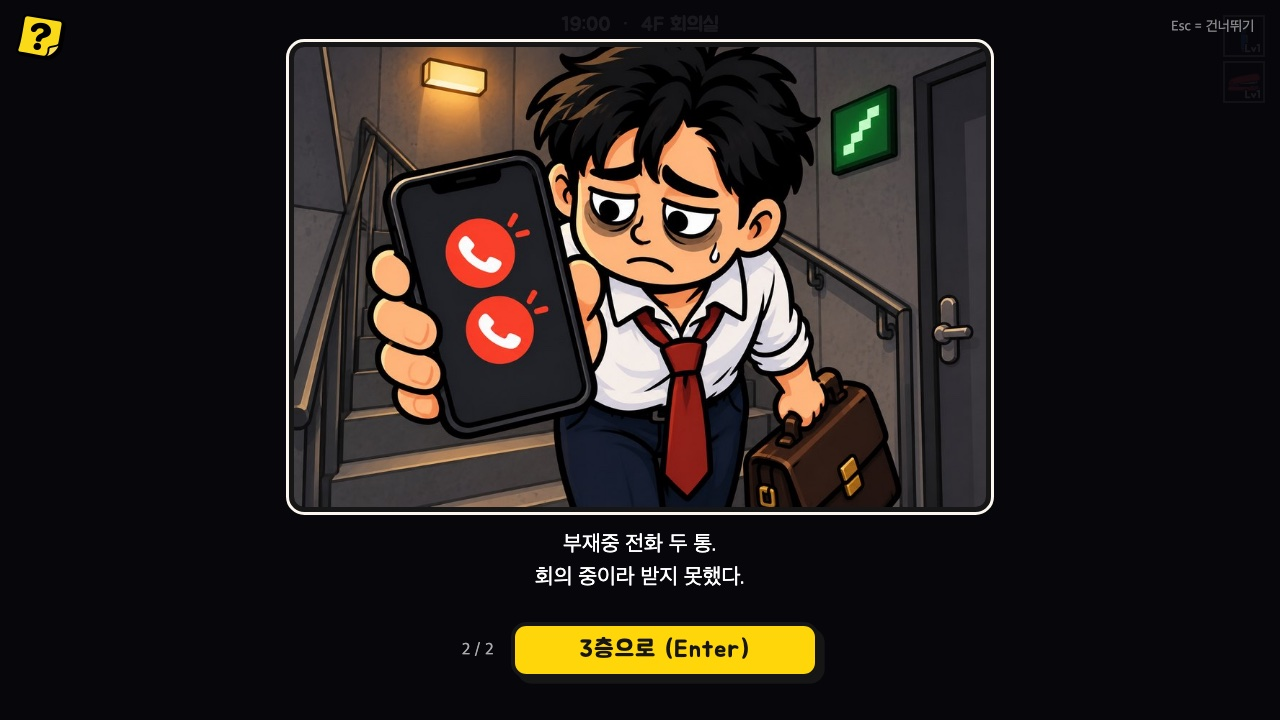
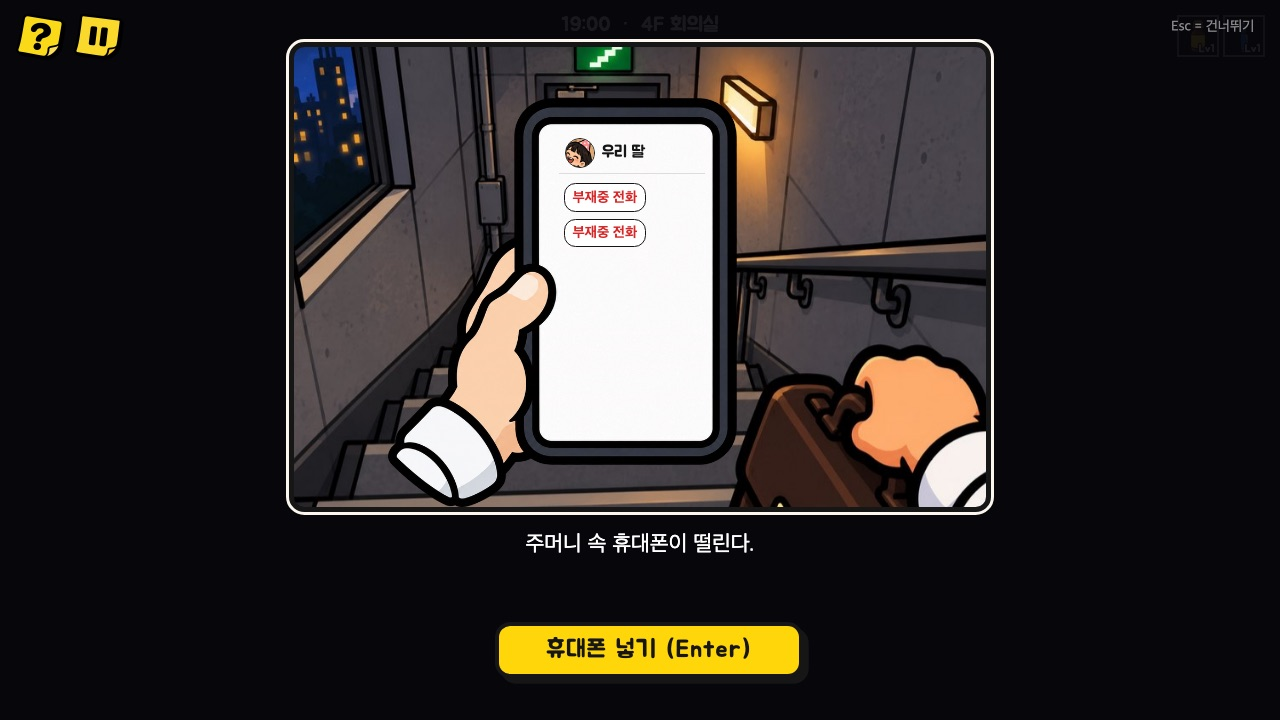
검토 문서와 화면을 일시정지 버튼·계단 휴대폰·4개 제한에 맞게 갱신

diff --git a/docs/office-reskin/03-review.md b/docs/office-reskin/03-review.md
@@ -6,11 +6,11 @@
 
 | 항목 | 상태 |
 |---|---|
-| 구현 | 5단계 모두 완료 |
-| 검사 | 화면 검사 14개, 컷신 검사 30개, 전체 층 검사 30개, 층별 특징 검사 21개 통과 (2026-09-30 층별 특징을 넣은 뒤 다시 돌림) |
-| 그림 | 117장 (PNG 98장 + 이야기 그림 JPG 19장. 09-30 에 층 전용 물건 7장과 믹스커피 1장 추가), 전부 눈으로 확인 |
+| 구현 | 5단계 모두 완료. 10-01 오후에 일시정지 버튼, 계단 휴대폰 장면, 1층 부장님 8레벨, 무기·아이템 4개 제한을 더함 |
+| 검사 | 화면 검사 16개, 컷신 검사 40개, 전체 층 검사 30개, 층별 특징 검사 24개, 4개 제한·진동 검사 11개 통과 (2026-10-01 위 4가지를 넣은 뒤 다시 돌림) |
+| 그림 | 116장 (PNG 101장 + 이야기 그림 JPG 15장. 10-01 에 일시정지 버튼, 휴대폰 든 손, 딸 사진 3장을 더하고 계단 이야기 그림 4장을 뺌), 전부 눈으로 확인 |
 | 브랜치 | 내 컴퓨터는 `office-reskin`. 새 레포 `office-escape` 의 `main` 으로 올라감 |
-| 커밋, 푸시 | 2026-10-01 새 레포 cmj1203/office-escape 에 올림. 공개 링크 https://cmj1203.github.io/office-escape/ (예전 던전 게임 링크 cmj1203.github.io/survivor-game 은 그대로) |
+| 커밋, 푸시 | 2026-10-01 새 레포 cmj1203/office-escape 에 올림. 공개 링크 https://cmj1203.github.io/office-escape/ (예전 던전 게임 링크 cmj1203.github.io/survivor-game 은 그대로). 10-01 오후의 4가지 변경은 아직 안 올림 ("올려" 를 받으면 올림) |
 | 남은 것 | 직접 보고 승인하기 |
 
 ## 2. 화면 보기
@@ -22,7 +22,7 @@
 | 00-sprites.jpg | 캐릭터, 적, 보스, 무기 그림 모음 |
 | 01-title.jpg | 제목 화면 |
 | 02-story.jpg | 시작 이야기 |
-| 03-intro.jpg | 게임 설명 |
+| 03-intro.jpg | 게임 설명 (10-01 에 무기·아이템 4개, 일시정지 버튼 문장 추가) |
 | 04-play-5f.jpg | 5층 전투 |
 | 05-levelup.jpg | 레벨업 카드 |
 | 06-drawer.jpg | 탕비실 서랍 (무기 고르기) |
@@ -37,8 +37,10 @@
 | 16-clear.jpg | 퇴근 (클리어) 결과 창 |
 | 17-walk-frames.jpg | 걷기·펄럭임 프레임 (김 과장 + 적 8종, 각 4장. 2026-09-30 추가) |
 | 20, 26, 27, 28-cutscene-opening*.jpg | 시작 컷신 4장: 퇴근 직전, 딸의 선물, 약속, 점검 중인 엘리베이터 |
-| 30-cutscene-stairs-walk.jpg | 김 과장의 눈으로 계단을 내려가는 연출 (층을 내려갈 때마다 먼저 나옴) |
-| 31 ~ 34-cutscene-stairs-*.jpg | 계단 컷신 4장 (걸어 내려간 뒤 1장씩) |
+| 30-cutscene-stairs-walk.jpg | 김 과장의 눈으로 계단을 내려가는 연출 (층을 내려갈 때마다 나옴) |
+| 35-cutscene-stairs-buzz.jpg | 내려가다 주머니 속 휴대폰이 울리는 순간 (진동 소리와 함께 떨림. 화면을 누르면 문자를 봄, 10-01) |
+| 31 ~ 34-cutscene-stairs-*.jpg | 휴대폰을 꺼내 본 화면 4장: 5→4층 "아빠 언제 와?", 4→3층 부재중 전화 2통, 3→2층 케이크 문자, 2→1층 "아빠, 나 졸려." (10-01) |
+| 36-cutscene-stairs-after.jpg | 휴대폰을 넣은 뒤 남은 계단 (4→3층: "회의 중이라 받지 못했다.") |
 | 41 ~ 43-cutscene-ending-*.jpg | 결말 컷신 3장 (부장님을 이긴 뒤. 43 은 노말엔딩) |
 | 44-cutscene-ending-good.jpg | 굿엔딩 마지막 장면 (15분 안에 퇴근했을 때) |
 | 50-floor-5f-desks.jpg | 5층: 길을 막는 책상 (도착 안내 문구) |
@@ -48,6 +50,8 @@
 | 54-floor-1f-dark.jpg | 1층: 불 꺼진 로비 |
 | 55-floor-props.jpg | 층 전용 물건 그림 7장 + 믹스커피 |
 | 56-stairs-warning.jpg | 간식 상자를 안 연 채 비상계단 문에 닿았을 때 뜨는 경고 (Esc = 상자 가지러 가기, Enter = 그냥 내려가기) |
+| 57-pause-button.jpg | 화면 왼쪽 위 ? 옆의 일시정지 버튼과 일시정지 창 "잠깐 화장실" (10-01) |
+| 58-help-slots.jpg | 도움말 아이템 탭 맨 아래의 "최대 4개" 안내 (무기 탭에도 있음, 10-01) |
 | 21 ~ 25-boss-intro-*.jpg | 보스 등장 연출: 5층, 4층, 3층, 2층, 부장님 (2026-09-30 추가) |
 
 ## 3. 직접 해 보기
@@ -78,12 +82,14 @@
 | 1 | 전체적으로 이대로 좋은가, 고칠 곳이 있는가 | |
 | 2 | 게임 제목 | 퇴근하겠습니다 (10-01 결정, 제목 글꼴 도현체, 제목 아래 문구 없음. 예전 이름 야근 탈출, 아빠는 퇴근 중) |
 | 3 | 3층 보스 인사팀장이 여성으로 그려졌다. 그대로 둘까 | 그대로 둠 |
-| 4 | 난이도: 층마다 보스가 나오기까지 올려야 하는 레벨 수(4/4/5/5/5)와 "늦어도 3분" 이 적당한가, 일반 적이 아직 단단한가 | 09-30 에 보스를 시간 대신 레벨로 바꾸고 일반 적 체력 증가를 절반쯤으로 낮춤. 아래 5번 참고 |
+| 4 | 난이도: 층마다 보스가 나오기까지 올려야 하는 레벨 수(4/4/5/5/8)와 "늦어도 3분" 이 적당한가, 일반 적이 아직 단단한가 | 09-30 에 보스를 시간 대신 레벨로 바꾸고 일반 적 체력 증가를 절반쯤으로 낮춤. 10-01 에 1층 부장님만 5 → 8 레벨. 아래 5번 참고 |
 | 5 | 공개 링크에 올릴까 | 10-01 새 레포 office-escape 에 올림 (예전 게임 링크는 그대로) |
 | 6 | 컷신 대본 (`04-cutscenes.md`) 의 대사와 그림이 괜찮은가 | 사연은 딸의 생일로 확정, 게임에 반영됨 |
 | 7 | 부장님의 사연 (답이 없어서 추천안으로 넣음): 부장님도 집에 못 가는 사람이고, 지고 나면 "들어가 봐. 뛰어." 라고 보내 준다 | 추천안 적용 |
 | 8 | 딸 나이: 케이크 그림의 초가 6개라서 대사를 "여섯 번째 생일" 로 맞췄다. 다른 나이가 좋으면 그림을 다시 만든다 | 여섯 번째 |
 | 9 | 층별 특징: 층마다 너무 쉽거나 어렵지 않은가 (`05-floor-features.md` 7장) | C 단계로 반영 (09-30): 층마다 막는 물건 + 규칙 하나 |
+| 10 | 무기·아이템 4개 제한: 자동 조작은 강화가 4개에 몰려 오히려 세졌다 (아래 6번). 직접 해 보고 너무 쉬워졌으면 알려 주기 | 각각 4개 (10-01) |
+| 11 | 계단 휴대폰 장면의 문자 내용과 진동 소리 (`04-cutscenes.md` 계단 표) | 10-01 반영 |
 
 ## 5. 난이도 숫자 고치는 곳
 
@@ -91,7 +97,9 @@
 
 | 고치고 싶은 것 | 찾을 이름 | 지금 값 |
 |---|---|---|
-| 층에 도착한 뒤 몇 레벨 오르면 보스가 나오는지 | `FLOORS` 표의 `bossLevels` | 5층 4, 4층 4, 3층 5, 2층 5, 1층(부장님) 5 |
+| 층에 도착한 뒤 몇 레벨 오르면 보스가 나오는지 | `FLOORS` 표의 `bossLevels` | 5층 4, 4층 4, 3층 5, 2층 5, 1층(부장님) 8 (10-01 에 5 → 8) |
+| 가질 수 있는 무기 수 | `MAX_WEAPONS` | 4 (10-01 에 6 → 4. 다 차면 새 무기 카드와 탕비실 서랍이 안 나옴) |
+| 가질 수 있는 아이템 수 | `PASSIVE_MAX_SLOTS` | 4 (10-01 에 6 → 4. 점심 메뉴판도 한 칸을 차지함) |
 | 층에 도착한 뒤 보스가 나오기까지 최소 시간 | `FLOOR_BOSS_MIN_TIME` | 30초 |
 | 굿엔딩 기준 시간 | `GOOD_ENDING_TIME` | 15분 (층마다 3분 상한을 다 채우면 넘음. 첫 값이라 체감 후 조정) |
 | 층마다 물건 종류·수·크기 | `FLOORS` 표의 `props` | 5층 책상 16, 4층 탁자 9, 3층 커피 머신 8, 2층 복합기 6 + 캐비닛 12, 1층 안내 데스크 3 + 화분 12 |
@@ -119,7 +127,9 @@
 | 항목 | 설명 |
 |---|---|
 | 재미와 난이도 | 자동 조작으로만 돌렸다. 사람이 하는 것과 다르다 |
-| 부장님 | 자동 조작이 레벨 62 에서 90초 동안 체력의 20% 만 깎았다. 너무 튼튼할 수 있다 |
+| 부장님 | 10-01 측정 (자동 조작 한 번): 8레벨 조건에서 1층 도착 163초 뒤 레벨 47 로 부장님을 만났고 (5레벨일 때는 92초), 90초 동안 체력 15960 중 4164 (26%) 를 깎았다. 사람이 해 보고 너무 튼튼하거나 약하면 알려 주기 |
+| 무기·아이템 4개 제한 | 자동 조작은 무기 4개에 강화가 몰려 오히려 세졌다: 4층·3층·2층 보스를 모두 90초 안에 잡음 (제한 전에는 셋 다 못 잡음), 부장님에게 준 피해도 9% → 26%. 한 번씩 돌린 결과라 운도 섞여 있다. 사람에게도 쉬워졌는지 확인 필요 |
+| 진동 소리 | 소리 파일 없이 게임이 직접 만든다. 크기와 느낌은 사람 귀로 확인 필요 (검토 영상에 소리가 들어 있음) |
 | 실제 공개 링크 | 10-01 부터 공개됨. 휴대폰 등 다른 기기에서는 아직 안 해 봄 |
 
 ## 7. 올린 곳과 다시 올리기

diff --git a/docs/office-reskin/04-cutscenes.md b/docs/office-reskin/04-cutscenes.md
@@ -1,6 +1,6 @@
 # 야근 탈출: 컷신 대본
 
-작성일: 2026-09-30 (같은 날 계단 연출과 새 결말로 고침). 상태: **게임에 반영됨.**
+작성일: 2026-09-30 (같은 날 계단 연출과 새 결말로 고침. 10-01 계단 장면을 휴대폰 진동·문자 확인으로 바꿈). 상태: **게임에 반영됨.**
 
 ## 1. 확정된 것
 
@@ -10,7 +10,7 @@
 | 시작 시각 | 오후 6시. 퇴근할 시간 |
 | 막차 | 뺐다. 게임 어디에도 나오지 않는다 |
 | 엘리베이터 | 마침 정기 점검 중이라 탈 수 없다. 그래서 계단으로 내려간다 |
-| 층 이동 | 층 보스를 잡으면 비상계단 문이 열리고, 김 과장의 눈으로 계단을 내려가는 연출(1인칭)이 나온다 |
+| 층 이동 | 층 보스를 잡으면 비상계단 문이 열리고, 김 과장의 눈으로 계단을 내려가는 연출(1인칭)이 나온다. 내려가는 도중 주머니 속 휴대폰이 울리고, 화면을 누르면 딸이 보낸 문자를 본다 (10-01) |
 | 케이크 | 처음부터 끝까지 홀케이크. 결말에서 식탁에 앉아 함께 촛불을 분다 |
 | 시계 | 18:00 에서 시작해 한 층에 한 시간씩. 23:00 에 부장님 등장 |
 | 부장님 | 입사 동기. 자기도 아이 생일을 놓친 적이 있다 (답을 받지 못해 추천안으로 넣음. 대사만 바꾸면 됨) |
@@ -28,16 +28,25 @@
 | 3 | story_promise | "촛불은 아빠가 와야 불 거야." / 오늘은 꼭 간다. |
 | 4 | story_noelev | 엘리베이터는 마침 정기 점검 중이었다. / 계단으로 간다. 다섯 층만 내려가면 된다. |
 
-### 계단 (층을 내려갈 때마다 2장면)
+### 계단 (층을 내려갈 때마다 1장면. 2026-10-01 휴대폰 장면으로 바꿈)
 
-첫 장면은 김 과장의 눈으로 본 계단 그림(story_stairs: 계단 아래 문, 오른손의 가방)이 걸음마다 출렁이며 아래층 문 쪽으로 다가가는 움직임이다. 다 내려가면 저절로 둘째 장면으로 넘어간다.
+김 과장의 눈으로 본 계단 그림(story_stairs: 계단 아래 문, 오른손의 가방)이 걸음마다 출렁이며 아래층 문 쪽으로 다가간다. 그 한 장면 안에서 아래 순서로 진행된다.
 
-| 구간 | 걷는 장면의 층 표시와 글 | 둘째 장면 그림 | 둘째 장면 글 |
-|---|---|---|---|
-| 5층에서 4층 | 5F → 4F / 비상계단으로 내려간다. | story_stair1 | 문자가 왔다. "아빠 언제 와?" / "금방 가." |
-| 4층에서 3층 | 4F → 3F / 한 층 더. | story_stair2 | 부재중 전화 두 통. / 회의 중이라 받지 못했다. |
-| 3층에서 2층 | 3F → 2F / 다리가 후들거린다. | story_stair3 | "케이크 꺼내 놨어. 촛불은 아직 안 켰어." |
-| 2층에서 1층 | 2F → 1F / 마지막 계단이다. | story_stair4 | "아빠, 나 졸려." / 1층이다. 이 문만 나서면 된다. |
+| 순서 | 화면 | 다음으로 넘어가는 법 |
+|---|---|---|
+| 1. 걷기 | 위에 층 표시(예: 5F → 4F), 아래에 걷는 글. 8걸음 중 3걸음째에서 멈춘다 | 저절로 (누르면 바로 2로) |
+| 2. 진동 | 휴대폰이 아래에서 반쯤 올라와 떨리고 "지잉" 소리가 난다. 휴대폰 화면에 "우리 딸" 알림, 아래에 진동 글. 볼 때까지 1.4초마다 다시 울린다 | 화면을 누름 |
+| 3. 문자 보기 | 왼손에 든 휴대폰이 다 올라오고 문자가 하나씩 나타난다. 진동 소리는 바로 멈춘다 | 누름 (문자가 아직 나타나는 중이면 먼저 다 보여 줌) |
+| 4. 휴대폰 넣기 | 휴대폰을 내리고 남은 계단을 마저 내려간다. 아래에 마지막 글 | 누르면 아래층으로 |
+
+| 구간 | 층 표시와 걷는 글 | 진동 글 | 휴대폰 알림 | 문자 | 휴대폰을 넣은 뒤 글 |
+|---|---|---|---|---|---|
+| 5층에서 4층 | 5F → 4F / 비상계단으로 내려간다. | 문자가 왔다. | 새 메시지 | 딸: "아빠 언제 와?" / 김 과장: "금방 가." | (걷는 글 그대로) |
+| 4층에서 3층 | 4F → 3F / 한 층 더. | 주머니 속 휴대폰이 떨린다. | 부재중 전화 2통 | 부재중 전화 / 부재중 전화 | 회의 중이라 받지 못했다. |
+| 3층에서 2층 | 3F → 2F / 다리가 후들거린다. | 문자가 왔다. | 새 메시지 2개 | 딸: "케이크 꺼내 놨어." / "촛불은 아직 안 켰어." | (걷는 글 그대로) |
+| 2층에서 1층 | 2F → 1F / 마지막 계단이다. | 문자가 왔다. | 새 메시지 | 딸: "아빠, 나 졸려." | 1층이다. 이 문만 나서면 된다. |
+
+예전의 계단 이야기 그림 4장(story_stair1~4: 문자를 보는 김 과장, 부재중 전화, 케이크를 꺼내 놓은 집, 1층 문 앞)은 이 휴대폰 장면으로 바뀌어 쓰지 않는다 (`_old/` 에 보관).
 
 ### 결말 (3장면, 부장님을 이긴 뒤. 굿엔딩 / 노말엔딩)
 
@@ -71,22 +80,22 @@
 
 | 키 | 동작 |
 |---|---|
-| Enter, Space, 클릭 | 다음 장면 (걷는 중에 누르면 걷기를 건너뛰고 바로 다음 장면) |
-| Esc | 컷신 전체 건너뛰기 |
+| Enter, Space, 클릭 | 다음 장면. 계단 장면에서는 한 단계씩: 걷는 중이면 휴대폰이 울리는 데까지 바로 감 → 진동 중이면 휴대폰 보기 → 문자를 보는 중이면 휴대폰 넣기 → 그다음은 아래층 |
+| Esc | 컷신 전체 건너뛰기 (진동 소리도 바로 멈춤) |
 
 ## 4. 그림
 
-이야기 그림 19장과 비상계단 문 아이콘 1장이다. 그림에는 글자를 넣지 않았고, 문자 내용은 아래 글로 보여 준다.
+이야기 그림 15장, 계단 휴대폰 장면용 그림 2장, 비상계단 문 아이콘 1장이다. 그림에는 글자를 넣지 않았다. 문자 내용은 게임이 아래 글이나 휴대폰 화면 위에 글자로 써서 보여 준다.
 
 | 묶음 | 그림 |
 |---|---|
 | 시작 | story_open, story_gift, story_promise, story_noelev |
-| 계단 | story_stairs (1인칭 계단 배경), story_stair1, story_stair2, story_stair3, story_stair4 |
+| 계단 | story_stairs (1인칭 계단 배경), phone_hand (왼손에 든 휴대폰. 화면은 비워 두고 게임이 알림과 문자를 씀), avatar_kid (휴대폰 화면의 딸 사진. 굿엔딩 그림에서 얼굴만 오려 냄) |
 | 결말 | story_end1, story_clear, story_home_good (굿엔딩), story_home (노말엔딩) |
 | 게임오버 | story_over_work, story_over_5f, story_over_4f, story_over_3f, story_over_2f, story_over_1f |
 | 게임 안 | stairs (보스를 잡으면 나타나는 비상계단 문 아이콘) |
 
-쓰지 않게 된 엘리베이터 그림, 예전 결말 그림, 옆에서 본 계단 그림(story_stairs_side)은 `assets/office/_old/` 에 보관했다.
+쓰지 않게 된 엘리베이터 그림, 예전 결말 그림, 옆에서 본 계단 그림(story_stairs_side), 계단 이야기 그림 story_stair1~4 (10-01 휴대폰 장면으로 바뀜)는 `assets/office/_old/` 에 보관했다.
 
 ## 5. 고치고 싶을 때
 
@@ -101,3 +110,10 @@
 | 걸음 수, 출렁임, 좌우 흔들림 | `STAIRS_WALK_STEPS`, `STAIRS_WALK_BOB`, `STAIRS_WALK_SWAY` |
 | 얼마나 다가가는지 | `STAIRS_WALK_ZOOM_FROM` → `STAIRS_WALK_ZOOM_TO` (배율) |
 | 다가가는 곳 | `STAIRS_WALK_FOCUS` (그림 속 아래층 문의 위치 %. 계단 그림을 바꾸면 맞춰야 함) |
+| 계단 휴대폰의 글 | `CUTSCENES.stairs` 의 `phone`: `ring` (진동이 올 때 아래 글), `notice` (휴대폰 알림), `chat` (문자. `me: true` = 김 과장이 보낸 것, `missed: true` = 부재중 전화), `after` (휴대폰을 넣은 뒤 글. 없으면 걷는 글) |
+| 휴대폰이 울리는 걸음 | `STAIRS_PHONE_STEP` (8걸음 중 지금 3걸음째) |
+| 문자를 보낸 사람 이름과 사진 | `PHONE_CONTACT` ("우리 딸"), `PHONE_AVATAR` |
+| 문자가 하나씩 나타나는 간격 | `PHONE_BUBBLE_DELAY` (0.7초) |
+| 진동이 다시 오는 간격 | `PHONE_BUZZ_REPEAT` (1.4초. CSS 의 phone-shake 길이와 같게 맞출 것) |
+| 진동 소리 (길이, 높이, 떨림, 크기) | `PHONE_BUZZ_LENGTH`, `PHONE_BUZZ_PITCH`, `PHONE_BUZZ_RATTLE`, `PHONE_BUZZ_VOLUME` (소리 파일 없이 게임이 직접 만듦) |
+| 진동 중과 문자 볼 때의 버튼 글자 | `PHONE_OPEN_LABEL`, `PHONE_CLOSE_LABEL` |

diff --git a/docs/office-reskin/01-names.md b/docs/office-reskin/01-names.md
@@ -1,9 +1,9 @@
 # 야근 탈출 개편: 이름표와 스토리
 
-작성일: 2026-09-29. 갱신: 2026-09-30.
+작성일: 2026-09-29. 갱신: 2026-10-01.
 상태: 게임에 반영됨 (브랜치 office-reskin, 커밋 전). 이름과 대사를 고치려면 index.html 의 해당 표를 고치면 된다.
 
-달라진 점: 회식은 의자가 아니라 소주병. 제목은 "퇴근하겠습니다" (2026-10-01 결정. 처음 이름 "야근 탈출", 잠깐 "아빠는 퇴근 중"). 시작 화면 제목 글꼴은 도현체(Do Hyeon), 제목 아래 문구는 없앰 (10-01). 일시정지 창 제목은 "잠깐 화장실".
+달라진 점: 회식은 의자가 아니라 소주병. 제목은 "퇴근하겠습니다" (2026-10-01 결정. 처음 이름 "야근 탈출", 잠깐 "아빠는 퇴근 중"). 시작 화면 제목 글꼴은 도현체(Do Hyeon), 제목 아래 문구는 없앰 (10-01). 일시정지 창 제목은 "잠깐 화장실". 화면 왼쪽 위 ? 단추 옆에 일시정지 단추(노란 포스트잇에 일시정지 표시)가 있다 (10-01).
 
 ## 1. 확정된 것
 
@@ -39,7 +39,7 @@
 | 2F | 서버실과 총무팀 | 전화기, 분기 보고서 | 감사팀장 | 2F 총무팀. 전화가 울린다. |
 | 1F | 로비 | 전부 | 부장님 | 1F 로비. 누군가 기다리고 있다. |
 
-한 층의 흐름: 도착 -> 싸우며 레벨을 올림 -> 그 층에서 정해진 만큼(4, 4, 5, 5, 5 레벨) 오르거나 늦어도 3분이 지나면(먼저 오는 쪽) 층 보스 등장(보스는 공격하지 않고 쫓아오기만 하며, 체력이 많다. 그동안 몰려오는 일반 적이 위협) -> 보스를 잡으면 비상계단 문이 열림 -> 김 과장의 눈으로 계단을 내려감 -> 아래층. (엘리베이터는 정기 점검 중이라 탈 수 없다)
+한 층의 흐름: 도착 -> 싸우며 레벨을 올림 -> 그 층에서 정해진 만큼(4, 4, 5, 5, 8 레벨) 오르거나 늦어도 3분이 지나면(먼저 오는 쪽) 층 보스 등장(보스는 공격하지 않고 쫓아오기만 하며, 체력이 많다. 그동안 몰려오는 일반 적이 위협) -> 보스를 잡으면 비상계단 문이 열림 -> 김 과장의 눈으로 계단을 내려감 (내려가다 휴대폰이 울려 딸의 문자를 봄) -> 아래층. (엘리베이터는 정기 점검 중이라 탈 수 없다)
 
 층마다 길을 막는 물건과 규칙이 하나씩 있다 (5층 책상, 4층 회의 구역, 3층 믹스커피, 2층 전화벨, 1층 불 꺼진 로비). 자세한 것은 `05-floor-features.md` 7장.
 
@@ -75,6 +75,8 @@
 ## 5. 무기 12개와 진화
 
 진화 조건: 무기를 최대 레벨로 올리고, 짝 아이템도 최대 레벨로 올린 뒤 간식 상자를 연다.
+
+가질 수 있는 수: 무기 4개, 아이템 4개 (2026-10-01. 원작은 6개씩. 점심 메뉴판도 한 칸을 차지한다).
 
 | 새 무기 | 공격 방식 | 진화 | 짝 아이템 | 코드 키 |
 |---|---|---|---|---|

diff --git a/docs/office-reskin/02-image-prompts.md b/docs/office-reskin/02-image-prompts.md
@@ -289,3 +289,15 @@ four edges. Dark and muted so that characters drawn on top stand out. Square ima
 | 1층 | prop_plant.png | 큰 회색 화분에 넓은 초록 잎 |
 
 후처리: `tools/process_sprites.py` 가 `prop_` 이름은 정사각형으로 채우지 않고 비율 그대로 긴 쪽 384픽셀로 줄인다 (게임이 `FLOORS` 표의 w × h 로 그림).
+
+## 19. 일시정지 버튼과 계단 휴대폰 장면 (2026-10-01 추가)
+
+| 쓰는 곳 | 파일 | 주제 문장 (요약) |
+|---|---|---|
+| 화면 왼쪽 위, ? 버튼 옆의 일시정지 버튼 | pause.png | 도움말 단추(help.png)와 같은 노란 포스트잇에 굵은 검은 일시정지 막대 두 개. 스프라이트 공통 문장을 앞에 붙임 |
+| 계단 장면의 휴대폰 | phone_hand.png | 김 과장의 눈으로 본 왼손(걷어 올린 흰 셔츠 소매)이 큰 검은 스마트폰을 세로로 든 모습. 화면은 글자 없는 흰 단색 (게임이 그 위에 알림과 문자를 씀) |
+| 휴대폰 화면의 딸 사진 | avatar_kid.png | 새로 만들지 않았다. 굿엔딩 그림 story_home_good 에서 딸 얼굴을 오려 192픽셀로 줄임 |
+
+후처리: `tools/process_sprites.py` 가 `phone_` 이름은 정사각형으로 채우지 않고 비율 그대로 긴 쪽 768픽셀로 줄인다 (화면에 크게 나오므로). phone_hand.png 는 654 × 768.
+
+쓰지 않게 된 그림: 계단 이야기 그림 story_stair1~4 (14장) 는 휴대폰 장면으로 바뀌어 `assets/office/_old/` 로 옮겼다.
